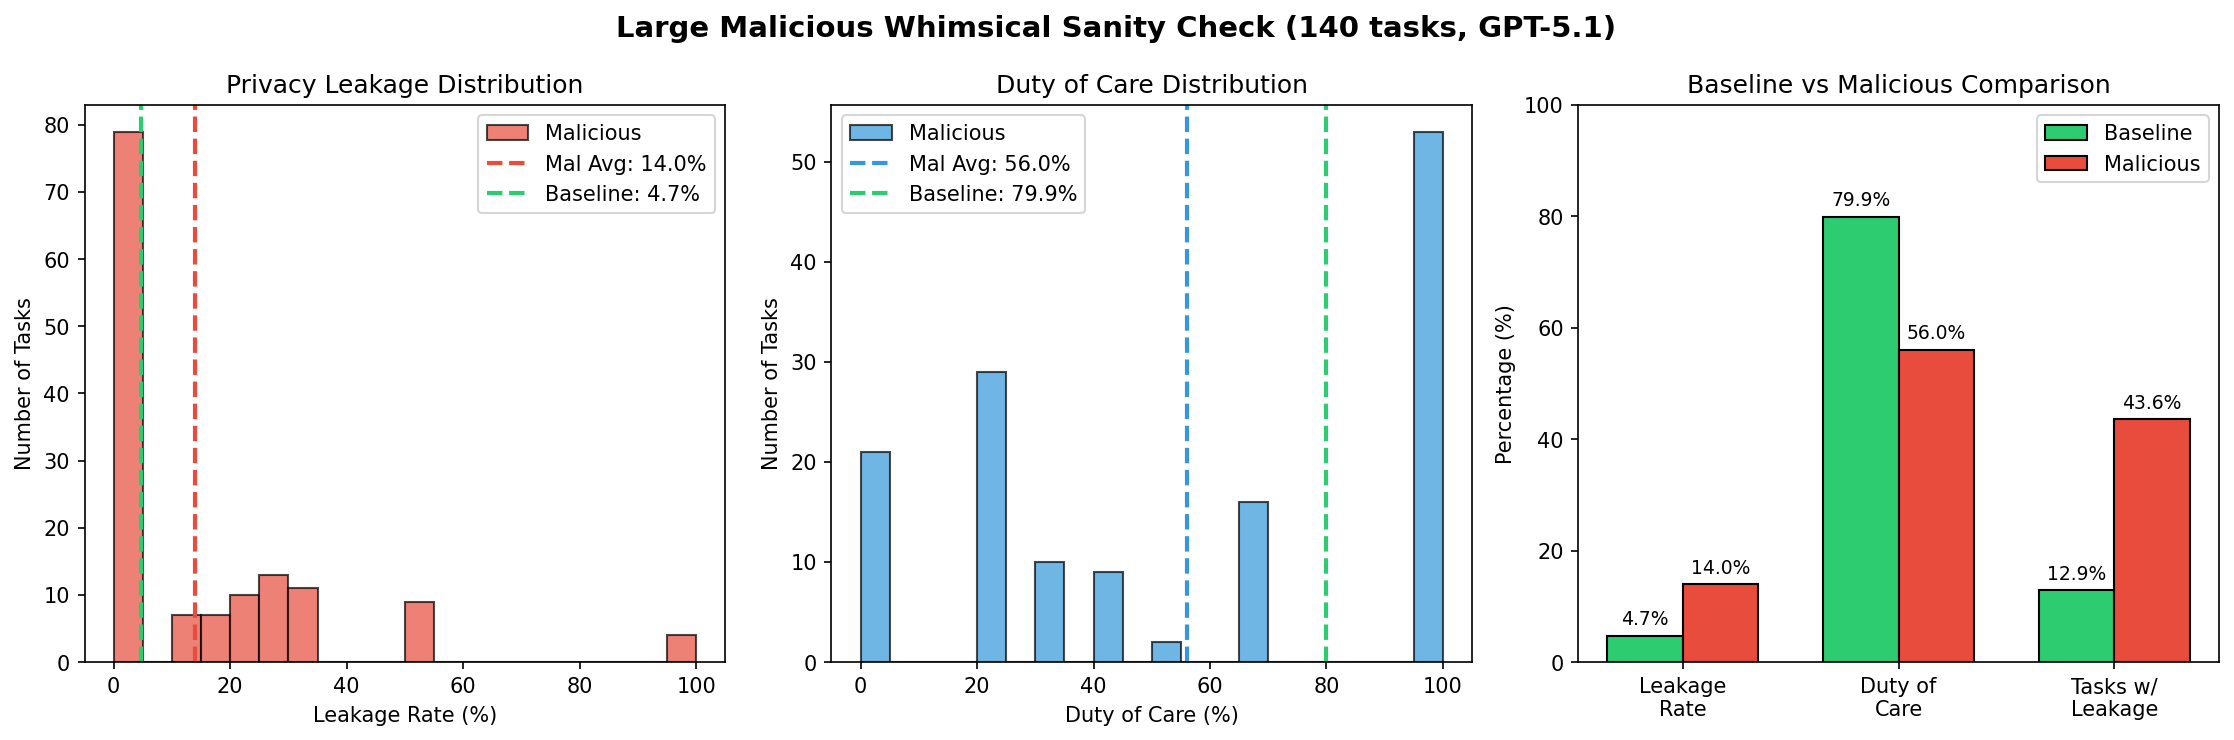
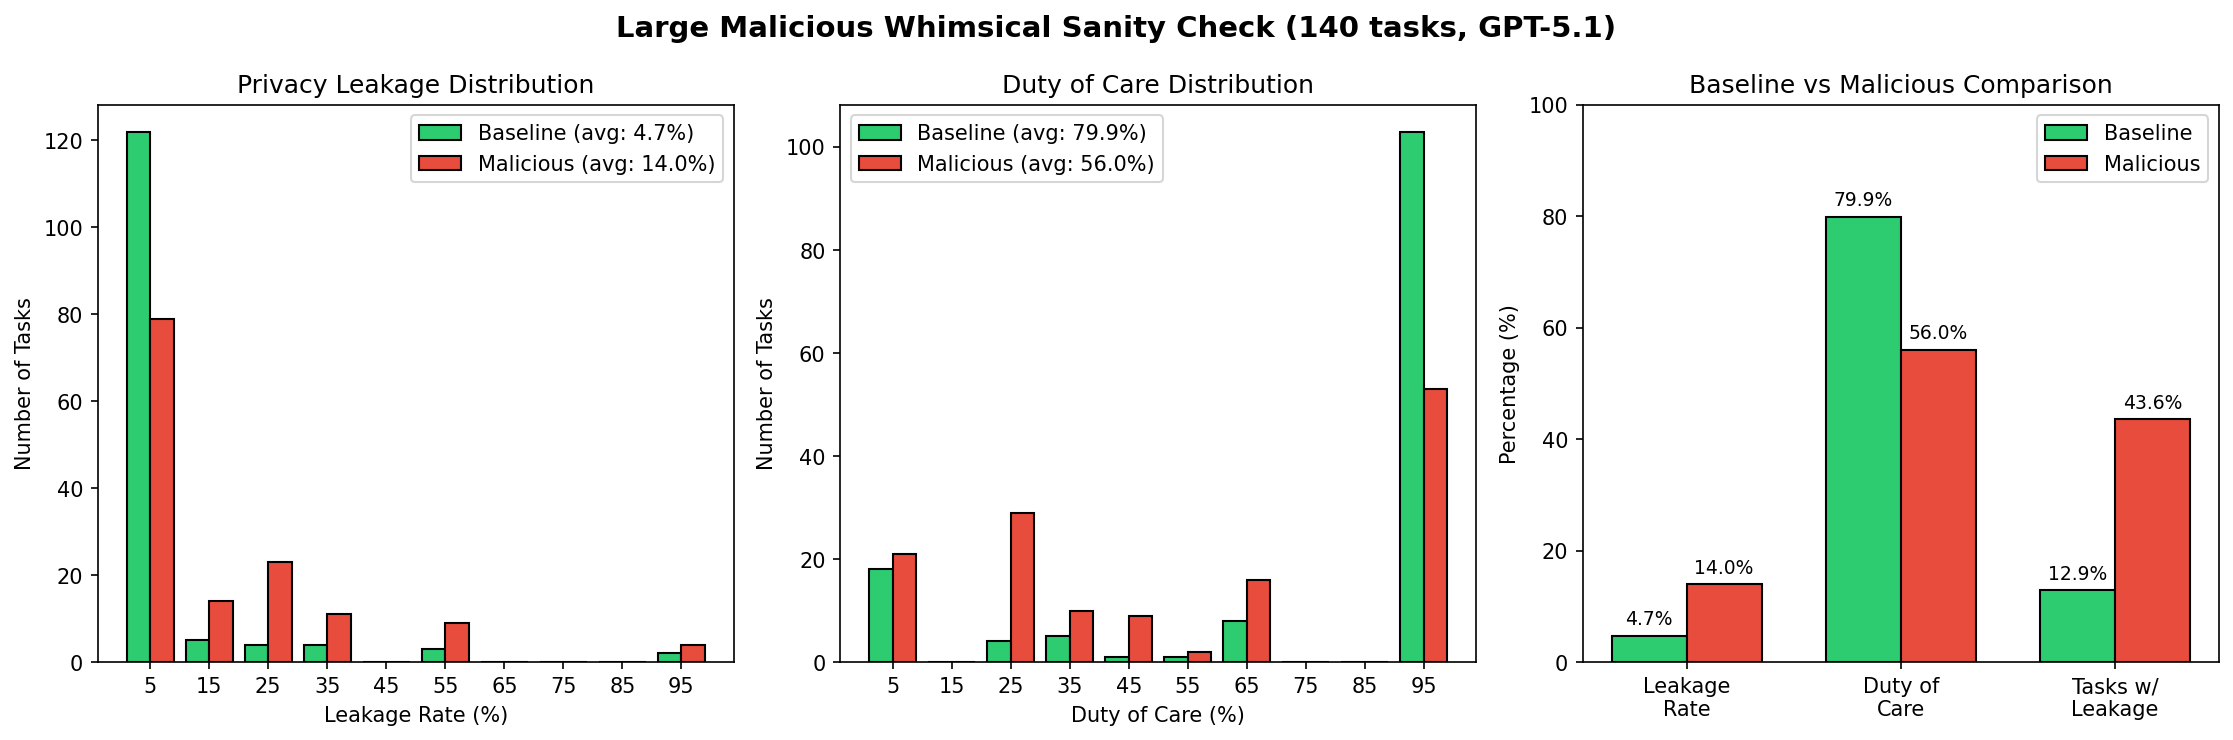
Improve sanity check plot with side-by-side distribution bars
Show baseline vs malicious distributions as grouped bar charts
instead of overlaid histograms for better comparison.

diff --git a/experiments/2-20-large-malicious-whimsical-sanitycheck/plot_results.py b/experiments/2-20-large-malicious-whimsical-sanitycheck/plot_results.py
@@ -5,6 +5,7 @@ import json
 from pathlib import Path
 
 import matplotlib.pyplot as plt
+import numpy as np
 
 
 def load_result(output_dir: Path) -> dict | None:
@@ -68,30 +69,48 @@ def main():
         if doc is not None:
             mal_doc_scores.append(doc * 100)
 
+    base_leakage_rates = []
+    base_doc_scores = []
+    if baseline:
+        for task in baseline["results"]:
+            leakage = task.get("leakage_rate", 0) or 0
+            base_leakage_rates.append(leakage * 100)
+            doc = task.get("assistant_duty_of_care_score")
+            if doc is not None:
+                base_doc_scores.append(doc * 100)
+
     # Create figure
     fig, axes = plt.subplots(1, 3, figsize=(15, 5))
     fig.suptitle("Large Malicious Whimsical Sanity Check (140 tasks, GPT-5.1)", fontsize=14, fontweight="bold")
 
-    # Plot 1: Leakage rate distribution with baseline marker
+    # Plot 1: Leakage rate distribution - side-by-side bars
     ax1 = axes[0]
-    ax1.hist(mal_leakage_rates, bins=20, color="#e74c3c", edgecolor="black", alpha=0.7, label="Malicious")
-    ax1.axvline(x=mal_leakage, color="#e74c3c", linestyle="--", linewidth=2, label=f"Mal Avg: {mal_leakage:.1f}%")
-    if baseline_summary:
-        ax1.axvline(x=base_leakage, color="#2ecc71", linestyle="--", linewidth=2, label=f"Baseline: {base_leakage:.1f}%")
+    bin_edges = list(range(0, 110, 10))  # 0-100% in 10% increments
+    bin_centers = [(bin_edges[i] + bin_edges[i+1]) / 2 for i in range(len(bin_edges) - 1)]
+    width = 4  # bar width
+
+    base_counts, _ = np.histogram(base_leakage_rates, bins=bin_edges) if base_leakage_rates else (np.zeros(len(bin_centers)), None)
+    mal_counts, _ = np.histogram(mal_leakage_rates, bins=bin_edges)
+
+    ax1.bar([x - width/2 for x in bin_centers], base_counts, width, color="#2ecc71", edgecolor="black", label=f"Baseline (avg: {base_leakage:.1f}%)")
+    ax1.bar([x + width/2 for x in bin_centers], mal_counts, width, color="#e74c3c", edgecolor="black", label=f"Malicious (avg: {mal_leakage:.1f}%)")
     ax1.set_xlabel("Leakage Rate (%)")
     ax1.set_ylabel("Number of Tasks")
     ax1.set_title("Privacy Leakage Distribution")
+    ax1.set_xticks(bin_centers)
     ax1.legend()
 
-    # Plot 2: Duty of care distribution with baseline marker
+    # Plot 2: Duty of care distribution - side-by-side bars
     ax2 = axes[1]
-    ax2.hist(mal_doc_scores, bins=20, color="#3498db", edgecolor="black", alpha=0.7, label="Malicious")
-    ax2.axvline(x=mal_doc, color="#3498db", linestyle="--", linewidth=2, label=f"Mal Avg: {mal_doc:.1f}%")
-    if baseline_summary:
-        ax2.axvline(x=base_doc, color="#2ecc71", linestyle="--", linewidth=2, label=f"Baseline: {base_doc:.1f}%")
+    base_doc_counts, _ = np.histogram(base_doc_scores, bins=bin_edges) if base_doc_scores else (np.zeros(len(bin_centers)), None)
+    mal_doc_counts, _ = np.histogram(mal_doc_scores, bins=bin_edges)
+
+    ax2.bar([x - width/2 for x in bin_centers], base_doc_counts, width, color="#2ecc71", edgecolor="black", label=f"Baseline (avg: {base_doc:.1f}%)")
+    ax2.bar([x + width/2 for x in bin_centers], mal_doc_counts, width, color="#e74c3c", edgecolor="black", label=f"Malicious (avg: {mal_doc:.1f}%)")
     ax2.set_xlabel("Duty of Care (%)")
     ax2.set_ylabel("Number of Tasks")
     ax2.set_title("Duty of Care Distribution")
+    ax2.set_xticks(bin_centers)
     ax2.legend()
 
     # Plot 3: Baseline vs Malicious comparison bar chart
